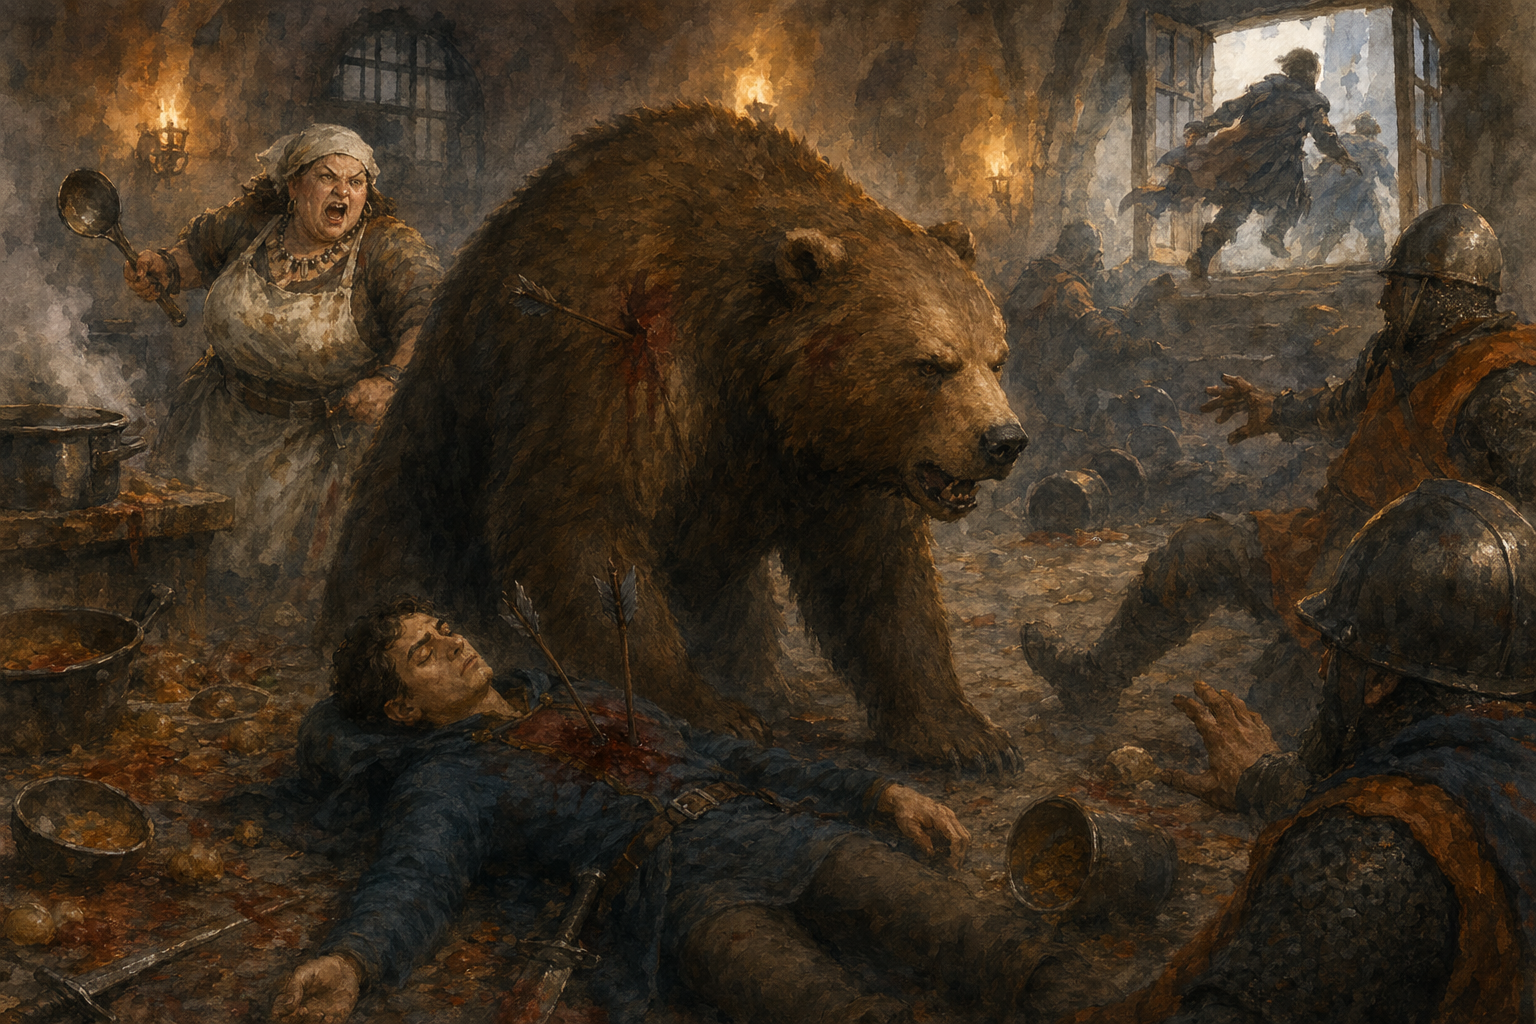
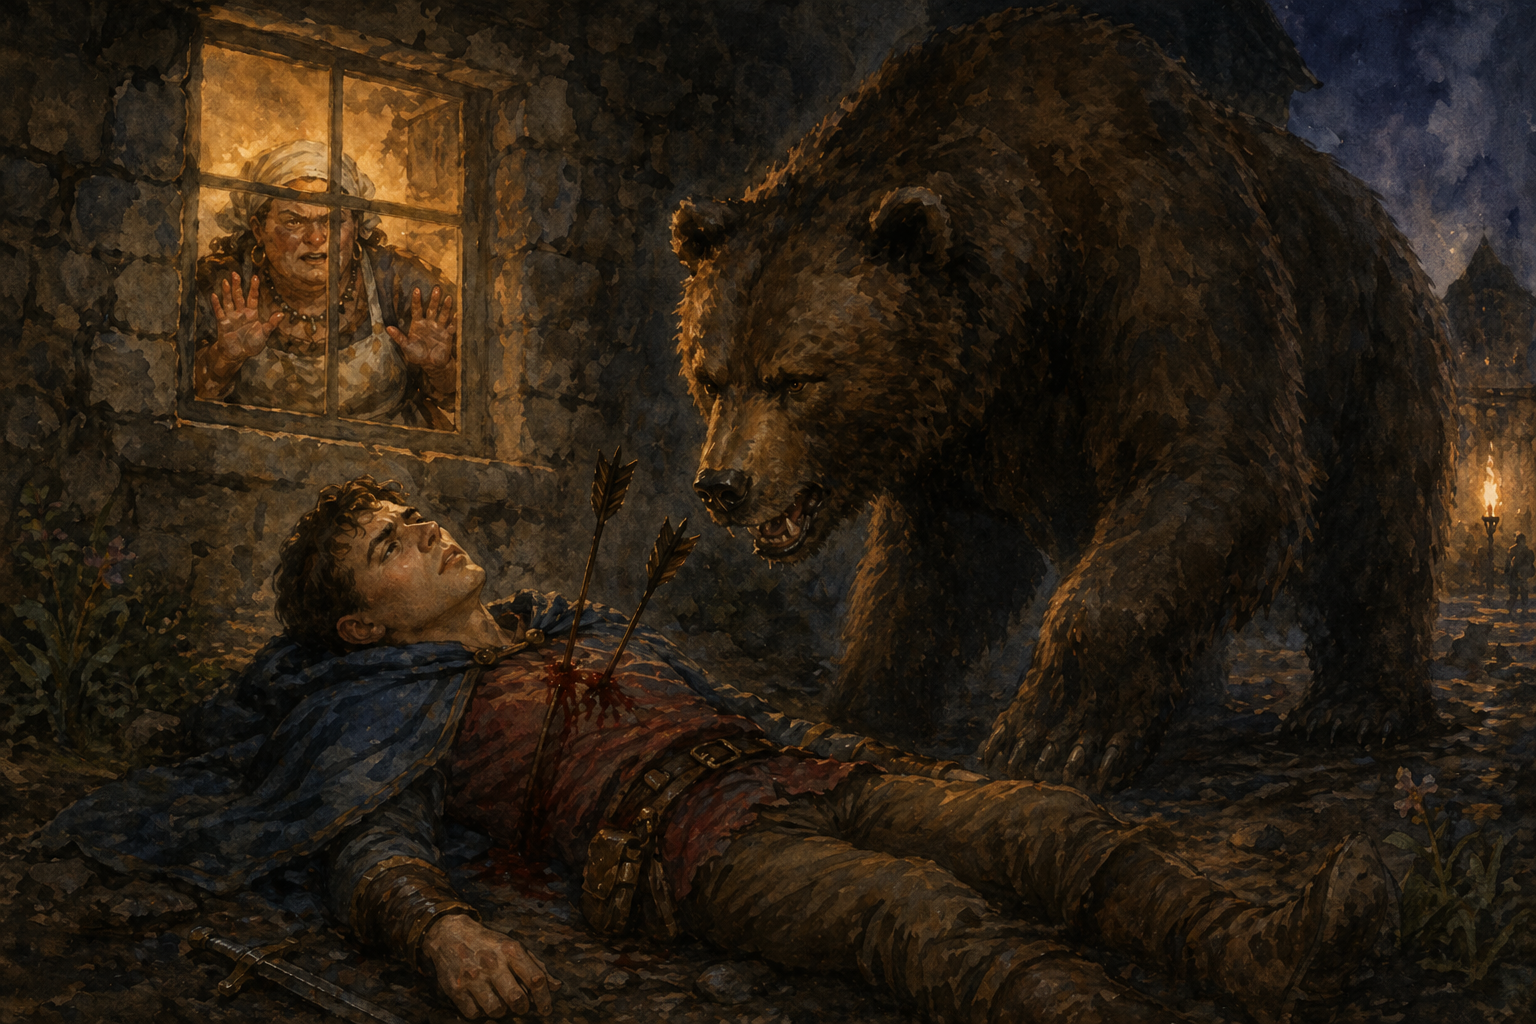
Regenerate session images with orange prisoner clothes and scene fixes
Pre-escape sessions now show party in orange prison uniforms. Slick's death scene corrected to outside the building with Helga visible through the window, in traveler's clothes not prison uniform.

diff --git a/generate_session_images.py b/generate_session_images.py
@@ -33,7 +33,7 @@ SESSIONS_DATA = [
         "prompt": (
             "A grim prison cafeteria with stone walls and iron bars casting long shadows. "
             "Five prisoners — a pale dhampir warrior, a dark-cloaked warlock, and three others "
-            "in drab prison clothes — huddle over bowls of grey slop, whispering urgently "
+            "all wearing orange prison uniforms — huddle over bowls of grey slop, whispering urgently "
             "with a crude map scratched into the table. Guards loom distantly in the background."
         ),
         "refs": [
@@ -47,8 +47,8 @@ SESSIONS_DATA = [
         "prompt": (
             "Inside a dimly lit prison mine shaft, a weathered elderly half-elf man with kind "
             "tired eyes quietly slips his mining quota stones to a pale, brooding dhampir warrior "
-            "beside him. Nearby, a warlock elbow-deep in a prison trash can searches frantically "
-            "for something. The scene is tense but quietly humane."
+            "beside him — both wearing orange prison uniforms. Nearby, a warlock in an orange prison "
+            "uniform is elbow-deep in a prison trash can searching frantically. The scene is tense but quietly humane."
         ),
         "refs": [
             img("npcs/grimshaw.png"),
@@ -59,10 +59,10 @@ SESSIONS_DATA = [
     {
         "file": "2026-02-13-escape-attempt-meets-helga.md",
         "prompt": (
-            "On a dark prison stairwell, a pale dhampir warrior and a tattooed warlock freeze "
-            "mid-step as a stout, no-nonsense dwarven woman in a food service apron appears "
-            "from the shadows above, hands on her hips, blocking their escape route. The only "
-            "light is a guttering torch. The moment hangs on a knife's edge."
+            "On a dark prison stairwell, a pale dhampir warrior and a tattooed warlock — both wearing "
+            "orange prison uniforms — freeze mid-step as a stout no-nonsense dwarven woman in a food "
+            "service apron appears from the shadows above, hands on her hips, blocking their escape. "
+            "The only light is a guttering torch. The moment hangs on a knife's edge."
         ),
         "refs": [
             img("party/alarak-vaelor-veltharion.png"),
@@ -75,8 +75,8 @@ SESSIONS_DATA = [
         "prompt": (
             "A large hawk with fierce golden eyes snatches a tiny brown rat tumbling through "
             "the air mid-fall, talons open, wings spread wide — the rat barely caught before "
-            "hitting the rocky road below. A wooden wagon rumbles away in the background "
-            "through a grey morning landscape. An absurd and desperate rescue."
+            "hitting the rocky road below. On top of the wagon, a pale roguish man in an orange "
+            "prison uniform watches in disbelief. A wooden wagon rumbles away through a grey morning landscape."
         ),
         "refs": [img("party/kaelen-thornecrest-1.png")],
     },
@@ -111,10 +111,10 @@ SESSIONS_DATA = [
     {
         "file": "2026-03-28-slick-dies-in-ironwood-fortress.md",
         "prompt": (
-            "A pale roguish man lies still on the stone floor of a chaotic soup kitchen, "
-            "two arrows in his chest, eyes closed. A massive brown bear stands over him "
-            "protectively, wounded guards backing away. A stout dwarven woman shouts from "
-            "across the room. The party is already fleeing through the window. Tragedy."
+            "Outside a stone building at night, a pale roguish man in traveler's clothes "
+            "lies dying in the dirt, two arrows in his chest. A massive brown bear looms over him. "
+            "Through a glowing window in the wall behind them, a stout dwarven woman in a food "
+            "service apron can be seen trapped inside, pressing her hands against the glass. Tragedy."
         ),
         "refs": [
             img("party/kaelen-thornecrest-1.png"),
